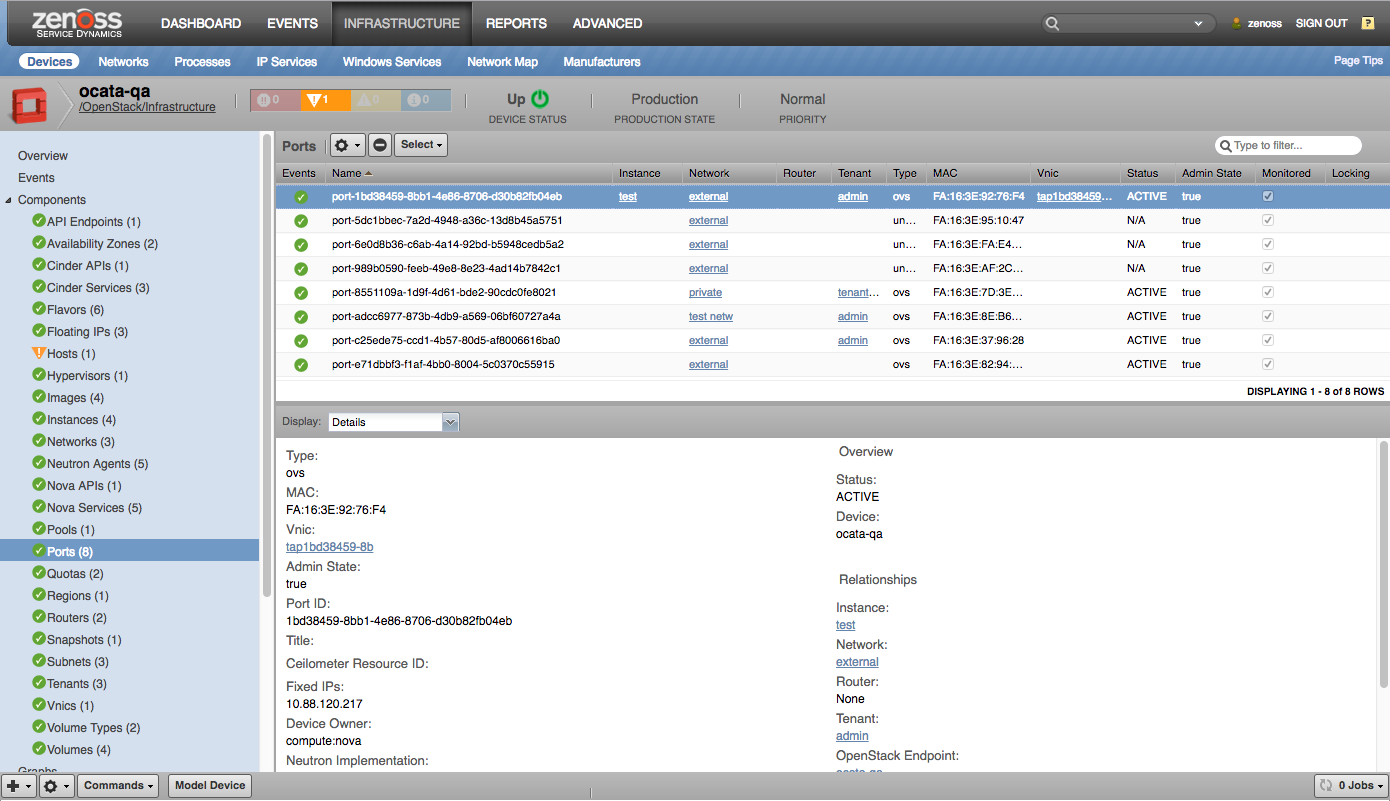
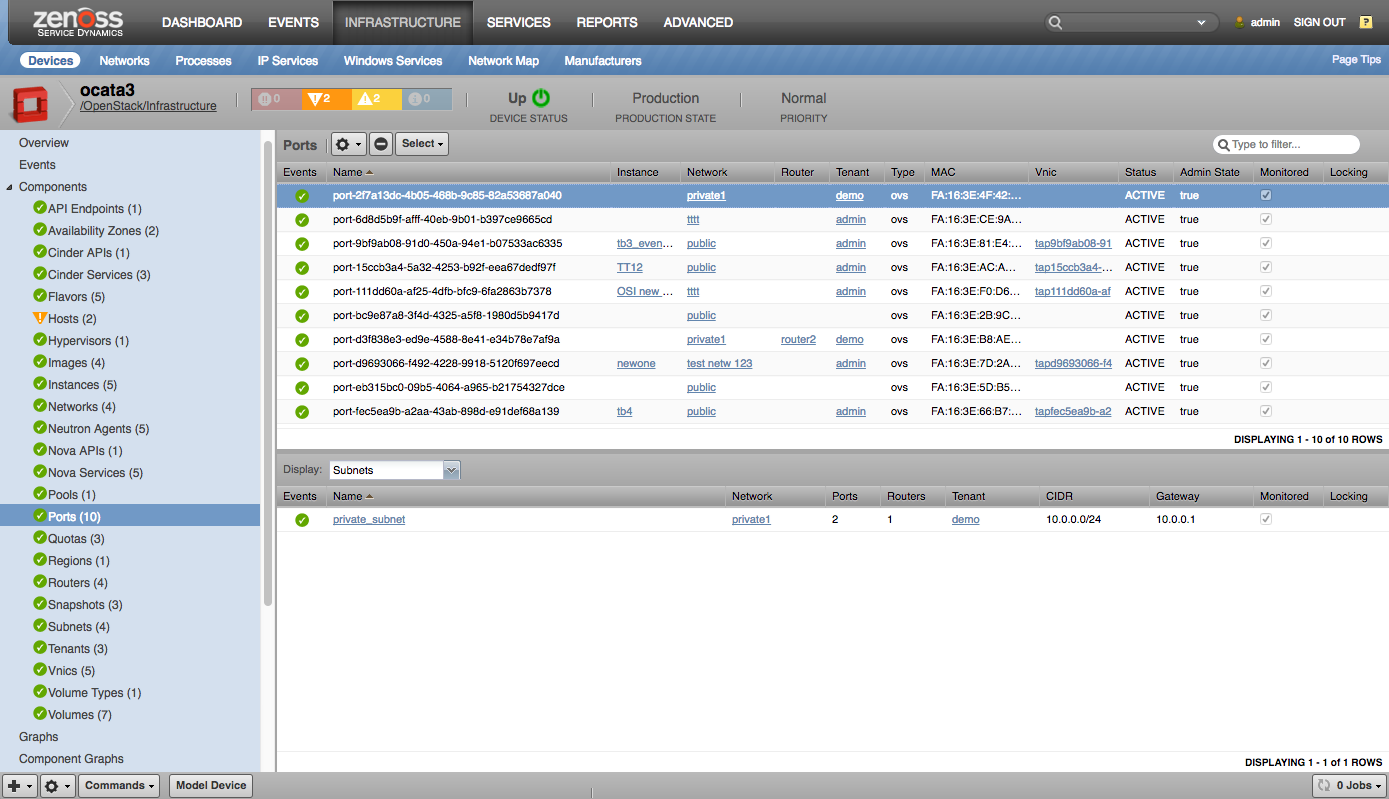
Updated Impact screenshots for Zenoss 5.x.  Also replaced some component screenshots with better ones that showed more graphs.  Fixed release date.

diff --git a/docs/body.md b/docs/body.md
@@ -770,9 +770,9 @@ External Impact Relationships
 ### Examples
 
 +:-----------------------------------------------:+:-------------------------------------------------------------------------------:+
-| [![][impact_instance.png]][impact_instance.png] | [![][impact_instance_with_floatingip.png]][impact_instance_with_floatingip.png] |
+| [![][impact_instance.png]][impact_instance.png] | [![][impact_ports.png]][impact_ports.png] |
 |                                                 |                                                                                 |
-| Impact (Instance)                               | Impact (Floating IP)                                                            |
+| Impact (Instance)                               | Impact (Network)                                                            |
 +-------------------------------------------------+---------------------------------------------------------------------------------+
 | [![][impact_region.png]][impact_region.png]     | [![][impact_tenant.png]][impact_tenant.png]                                     |
 |                                                 |                                                                                 |
@@ -892,7 +892,7 @@ provided ApiEndpoint monitoring template.
 [hypervisors.png]: ../docs/images/hypervisors.png "Hypervisor" {.gallerythumbnail}
 [images.png]: ../docs/images/images.png "Image" {.gallerythumbnail}
 [impact_instance.png]: ../docs/images/impact_instance.png "Impact Instance" {.gallerythumbnail}
-[impact_instance_with_floatingip.png]: ../docs/images/impact_instance_with_floatingip.png "Impact with FloatingIP" {.gallerythumbnail}
+[impact_ports.png]: ../docs/images/impact_ports.png "Impact Network Ports" {.gallerythumbnail}
 [impact_region.png]: ../docs/images/impact_region.png "Impact Region" {.gallerythumbnail}
 [impact_tenant.png]: ../docs/images/impact_tenant.png "Impact" {.gallerythumbnail}
 [instances.png]: ../docs/images/instances.png "Instance" {.gallerythumbnail}

diff --git a/docs/releases.md b/docs/releases.md
@@ -2,7 +2,7 @@ Releases
 --------
 
 Version 2.4.0- <a rel="nofollow" class="external" href="http://wiki.zenoss.org/download/zenpacks/ZenPacks.zenoss.OpenStackInfrastructure/2.4.0/ZenPacks.zenoss.OpenStackInfrastructure-2.4.0.egg">Download</a>
-: Released on 2016/12/19
+: Released on 2017/08/15
 : Requires PythonCollector ZenPack,OpenStack (Tenant View) ZenPack,Linux Monitor ZenPack
 : Requires <a href="/product/zenpacks/pythoncollector" title="ZenPack:PythonCollector">PythonCollector ZenPack</a>,<a href="/product/zenpacks/openstack-tenant-view" title="ZenPack:OpenStack (Tenant View)">OpenStack (Tenant View) ZenPack</a>,<a href="/product/zenpacks/linux-monitor" title="ZenPack:Linux Monitor">Linux Monitor ZenPack</a>
 : Compatible with Zenoss Core 4.2.x, Zenoss Core 5.0.x, Zenoss Core 5.1.x, Zenoss Resource Manager 4.2.x, Zenoss Resource Manager 5.0.x, Zenoss Resource Manager 5.1.x, Zenoss Resource Manager 5.x.x
